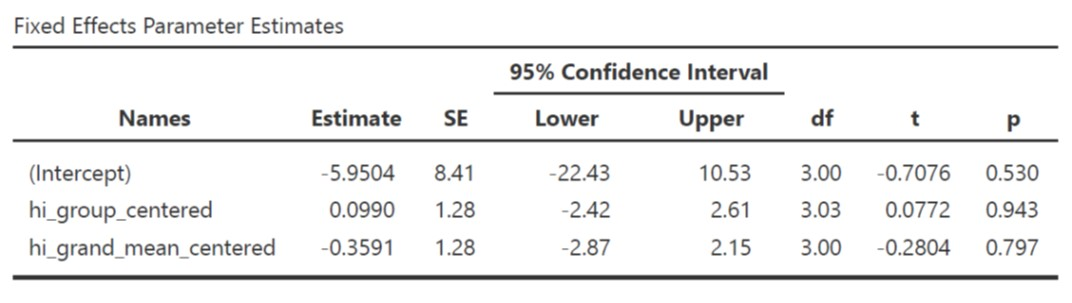
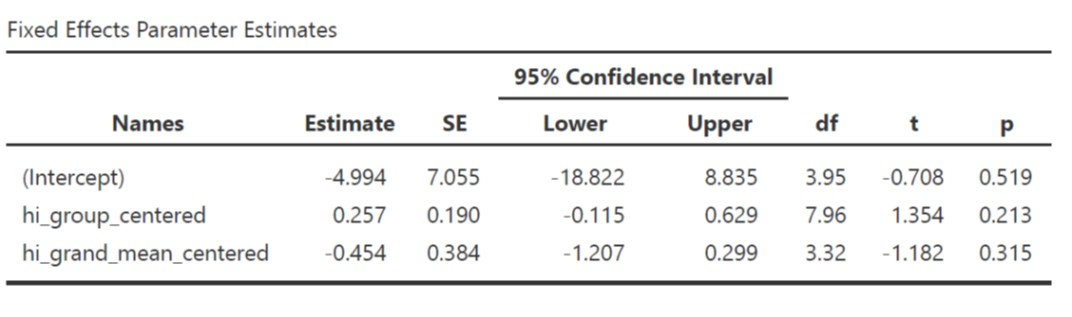
update materi

diff --git a/docs/materi-lme2.html b/docs/materi-lme2.html
@@ -385,6 +385,8 @@ Setelah menginspeksi data secara visual, kita tahu bahwa korelasi antara **penda
 
 * Lakukan `lme` dengan memasukkan **hi_group_centered** dan **hi_grand_mean_centered** dalam satu model yang sama
 
+* Masukkan kedua variabel tersebut dalam **fixed coefficients** dan **random coefficients**
+
 * Lihat *fixed slopes*-nya untuk kedua prediktor
 
 ]
@@ -402,9 +404,9 @@ Setelah menginspeksi data secara visual, kita tahu bahwa korelasi antara **penda
 
 .pull-left[
 
-* Kita tidak punya bukti yang meyakinkan bahwa kita dapat menolak hipotesis bahwa *within* (*B*=-0.099 95% CI [-2.42, 2.61], *SE*=1.28, *t*=0.077, *p*=.943), maupun *between-group variance* (*B*=-0.359 95% CI [-2.87, 2.15], *SE*=0.372, *t*=-0.280, *p*=.797) tidak dapat menjelaskan varians tingkat kemandirian anak.
+* Kita tidak punya bukti yang meyakinkan bahwa kita dapat menolak hipotesis bahwa *within* (*B*=0.257 95% CI [-0.115, 0.629], *SE*=0.190, *t*=1.354, *p*=.213), maupun *between-group variance* (*B*=-0.454 95% CI [-1.207, 0.299], *SE*=0.384, *t*=-1.182, *p*=.315) tidak dapat menjelaskan varians tingkat kemandirian anak.
 
-* *Contextual effects* = -.4581
+* *Contextual effects* = -0.711
 
 ]
 
@@ -437,9 +439,9 @@ class: inverse
 
 "...model *random effects* menunjukkan bahwa peneliti dapat menolak hipotesis bahwa tidak ada perbedaan varians tingkat kemandirian antar-kelompok (LRT(2)=74.0, *p*&lt;.001). Varians kemandirian anak paling banyak dijelaskan oleh rata-rata tingkat kemandirian anak di masing-masing sekolah (varians *random intercept* (σ&lt;sup&gt;2&lt;/sup&gt;&lt;sub&gt;*U0*&lt;/sub&gt;)) daripada oleh varians *random slopes*  (σ&lt;sup&gt;2&lt;/sup&gt;&lt;sub&gt;*U1*&lt;/sub&gt;). Selain itu, 93.1% varians tingkat kemandirian anak dijelaskan oleh perbedaan kelompok (ICC=0.931).
 
-Peneliti tidak memiliki cukup bukti yang meyakinkan untuk menolak hipotesis yang menyatakan bahwa *within* (*B*=-0.099 95% CI [-2.42, 2.61], *SE*=1.28, *t*=0.077, *p*=.943), maupun *between-group variance* (*B*=-0.359 95% CI [-2.87, 2.15], *SE*=0.372, *t*=-0.280, *p*=.797) tidak dapat menjelaskan varians tingkat kemandirian anak. 
+Peneliti tidak memiliki cukup bukti yang meyakinkan untuk menolak hipotesis yang menyatakan bahwa *within* (*B*=0.257 95% CI [-0.115, 0.629], *SE*=0.190, *t*=1.354, *p*=.213), maupun *between-group variance* (*B*=-0.454 95% CI [-1.207, 0.299], *SE*=0.384, *t*=-1.182, *p*=.315) tidak dapat menjelaskan varians tingkat kemandirian anak. 
 
-*Contextual effects* ditemukan sebesar -.4581, artinya, anak yang bersekolah di dua tempat yang berbeda, dengan selisih rata-rata tingkat kemandirian anak-anak di dua sekolah tersebut sebesar 1 poin, maka tingkat kemandirian mereka berbeda sebesar 0.4581 poin, apabila diasumsikan keluarga mereka memiliki pendapatan yang sama besarnya..."
+*Contextual effects* ditemukan sebesar -0.711, artinya, anak yang bersekolah di dua tempat yang berbeda, dengan selisih rata-rata tingkat kemandirian anak-anak di dua sekolah tersebut sebesar 1 poin, maka tingkat kemandirian mereka berbeda sebesar 0.711 poin, apabila diasumsikan keluarga mereka memiliki pendapatan yang sama besarnya..."
 
 ---
 
